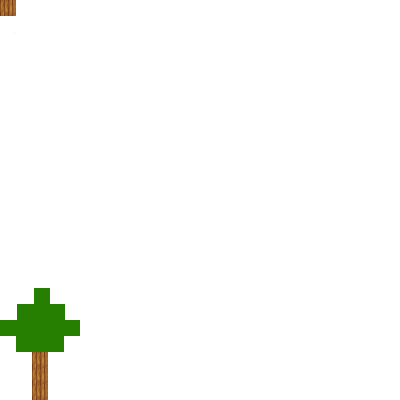
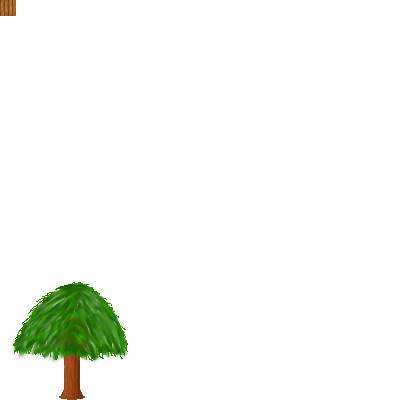
texture fix

Changed region(s): [[0.0, 0.69, 0.33, 1.0]]

diff --git a/Desolation/Desolation/Chunk/Room.cs b/Desolation/Desolation/Chunk/Room.cs
@@ -62,17 +62,17 @@ namespace Desolation
 
                                 if (j == 0)
                                 {
-                                    spriteBatch.Draw(TextureManager.roofsheet, new Vector2(area.X + j, area.Y + i - 16), new Rectangle(16, 16, Globals.blockSize * 3, Globals.blockSize), Color.White, 0f, Vector2.Zero, 1f, SpriteEffects.None, 1.0f);
+                                    spriteBatch.Draw(TextureManager.roofsheet, new Vector2(area.X + j, area.Y + i - 16), new Rectangle(16, 16, Globals.blockSize * 3, Globals.blockSize), Color.White, 0f, Vector2.Zero, 1f, SpriteEffects.None, 0.5f);
 
                                 }
                                 else if (j == area.Width - 16)
                                 {
-                                    spriteBatch.Draw(TextureManager.roofsheet, new Vector2(area.X + j - 16 * 2, area.Y + i - 16), new Rectangle(64, 16, Globals.blockSize * 3, Globals.blockSize), Color.White, 0f, Vector2.Zero, 1f, SpriteEffects.None, 1.0f);
+                                    spriteBatch.Draw(TextureManager.roofsheet, new Vector2(area.X + j - 16 * 2, area.Y + i - 16), new Rectangle(64, 16, Globals.blockSize * 3, Globals.blockSize), Color.White, 0f, Vector2.Zero, 1f, SpriteEffects.None, 0.5f);
 
                                 }
                                 else if (j > 16 * 2 && j < area.Width - 16 * 3)
                                 {
-                                    spriteBatch.Draw(TextureManager.roofsheet, new Vector2(area.X + j, area.Y + i - 16), new Rectangle(0, 16, Globals.blockSize, Globals.blockSize), Color.White, 0f, Vector2.Zero, 1f, SpriteEffects.None, 1.0f);
+                                    spriteBatch.Draw(TextureManager.roofsheet, new Vector2(area.X + j, area.Y + i - 16), new Rectangle(0, 16, Globals.blockSize, Globals.blockSize), Color.White, 0f, Vector2.Zero, 1f, SpriteEffects.None, 0.5f);
 
                                 }
                             }
@@ -80,17 +80,17 @@ namespace Desolation
                             {
                                 if (j == 0)
                                 {
-                                    spriteBatch.Draw(TextureManager.roofsheet, new Vector2(area.X + j, area.Y + i - 16), new Rectangle(16, 0, Globals.blockSize * 3, Globals.blockSize), Color.White, 0f, Vector2.Zero, 1f, SpriteEffects.None, 1.0f);
+                                    spriteBatch.Draw(TextureManager.roofsheet, new Vector2(area.X + j, area.Y + i - 16), new Rectangle(16, 0, Globals.blockSize * 3, Globals.blockSize), Color.White, 0f, Vector2.Zero, 1f, SpriteEffects.None, 0.5f);
 
                                 }
                                 else if (j == area.Width - 16)
                                 {
-                                    spriteBatch.Draw(TextureManager.roofsheet, new Vector2(area.X + j - 16 * 2, area.Y + i - 16), new Rectangle(64, 0, Globals.blockSize * 3, Globals.blockSize), Color.White, 0f, Vector2.Zero, 1f, SpriteEffects.None, 1.0f);
+                                    spriteBatch.Draw(TextureManager.roofsheet, new Vector2(area.X + j - 16 * 2, area.Y + i - 16), new Rectangle(64, 0, Globals.blockSize * 3, Globals.blockSize), Color.White, 0f, Vector2.Zero, 1f, SpriteEffects.None, 0.5f);
 
                                 }
                                 else if (j > 16 * 2 && j < area.Width - 16 * 3)
                                 {
-                                    spriteBatch.Draw(TextureManager.roofsheet, new Vector2(area.X + j, area.Y + i - 16), new Rectangle(0, 32, Globals.blockSize, Globals.blockSize), Color.White, 0f, Vector2.Zero, 1f, SpriteEffects.None, 1.0f);
+                                    spriteBatch.Draw(TextureManager.roofsheet, new Vector2(area.X + j, area.Y + i - 16), new Rectangle(0, 32, Globals.blockSize, Globals.blockSize), Color.White, 0f, Vector2.Zero, 1f, SpriteEffects.None, 0.5f);
 
                                 }
                             }
@@ -98,17 +98,17 @@ namespace Desolation
                             {
                                 if (j < 16 * 3)
                                 {
-                                    spriteBatch.Draw(TextureManager.roofsheet, new Vector2(area.X + j, area.Y + i - 16), new Rectangle(0, 48, Globals.blockSize, Globals.blockSize), Color.White, 0f, Vector2.Zero, 1f, SpriteEffects.None, 1.0f);
+                                    spriteBatch.Draw(TextureManager.roofsheet, new Vector2(area.X + j, area.Y + i - 16), new Rectangle(0, 48, Globals.blockSize, Globals.blockSize), Color.White, 0f, Vector2.Zero, 1f, SpriteEffects.None, 0.5f);
                             
                                 }
                                 else if (j > area.Width - 16 * 4)
                                 {
-                                    spriteBatch.Draw(TextureManager.roofsheet, new Vector2(area.X + j, area.Y + i - 16), new Rectangle(0, 64, Globals.blockSize, Globals.blockSize), Color.White, 0f, Vector2.Zero, 1f, SpriteEffects.None, 1.0f);
+                                    spriteBatch.Draw(TextureManager.roofsheet, new Vector2(area.X + j, area.Y + i - 16), new Rectangle(0, 64, Globals.blockSize, Globals.blockSize), Color.White, 0f, Vector2.Zero, 1f, SpriteEffects.None, 0.5f);
                             
                                 }
                                 else
                                 {
-                                    spriteBatch.Draw(TextureManager.roofsheet, new Vector2(area.X + j, area.Y + i - 16), new Rectangle(0, 0, Globals.blockSize, Globals.blockSize), Color.White, 0f, Vector2.Zero, 1f, SpriteEffects.None, 1.0f);
+                                    spriteBatch.Draw(TextureManager.roofsheet, new Vector2(area.X + j, area.Y + i - 16), new Rectangle(0, 0, Globals.blockSize, Globals.blockSize), Color.White, 0f, Vector2.Zero, 1f, SpriteEffects.None, 0.5f);
                             
                                 }
                             }

diff --git a/Desolation/Desolation/Chunk/Generator.cs b/Desolation/Desolation/Chunk/Generator.cs
@@ -44,6 +44,9 @@ namespace Desolation
 
             int YPos = region.yPosRegion * 4 + valueIndex / 4;
 
+            uint uniquePos = Globals.getUniqueNumber(Globals.getUniquePositiveFromAny(XPos), Globals.getUniquePositiveFromAny(YPos));
+            uint uniqueseed = Globals.getUniqueNumber(uniquePos, (uint)Globals.seed);
+            Random generator = new Random((int)uniqueseed);
 
             int localxPos;
             int localyPos;
@@ -99,7 +102,7 @@ namespace Desolation
             byte[] blocks = new byte[256];
             for (int j = 0; j < blocks.Length; j++)
             {
-                int chance = Globals.rand.Next(0, 2);
+                int chance = generator.Next(0, 2);
                 if (chance <= 0)
                 {
                     blocks[j] = (byte)0;
@@ -117,10 +120,11 @@ namespace Desolation
 
             chunk.blocks = blocks;
 
+            
             byte[] objects = new byte[256];
             for (int j = 0; j < objects.Length; j++)
             {
-                int chance = Globals.rand.Next(0, 200);
+                int chance = generator.Next(0, 200);
                 if (chance <= 0)
                 {
                     objects[j] = (byte)3;

diff --git a/Desolation/Desolation/Chunk/RenderObject.cs b/Desolation/Desolation/Chunk/RenderObject.cs
@@ -63,7 +63,7 @@ namespace Desolation
                     spriteBatch.Draw(TextureManager.objectsheet, position, new Rectangle(0, 0, Globals.blockSize, Globals.blockSize), Color.White, 0f, Vector2.Zero, 1f, SpriteEffects.None, (float)(0.3 + 0.0001f * (position.Y - Globals.cameraPos.Y)));
                     break;
                 case 3:
-                    spriteBatch.Draw(TextureManager.objectsheet, new Vector2(position.X - 32, position.Y - 96), new Rectangle(0, 288, 80, 112), Color.White, 0f, Vector2.Zero, 1f, SpriteEffects.None, (float)(0.3 + 0.0001f * (position.Y - Globals.cameraPos.Y)));
+                    spriteBatch.Draw(TextureManager.objectsheet, new Vector2(position.X - 64, position.Y - 96), new Rectangle(0, 272, 128, 128), Color.White, 0f, Vector2.Zero, 1f, SpriteEffects.None, (float)(0.3 + 0.0001f * (position.Y - Globals.cameraPos.Y)));
                     break;
                 default:
                     break;

diff --git a/Desolation/Desolation/Animations/Animation.cs b/Desolation/Desolation/Animations/Animation.cs
@@ -30,7 +30,7 @@ namespace Desolation
             switch (animationType)
             {
                 case AnimationType.FadeOutAndIn:
-                    spriteBatch.Draw(TextureManager.fillingTexture, new Vector2(position.X - 10, position.Y - 10), new Rectangle(-10, -10, Globals.screenX + 20, Globals.screenY + 20), new Color((float)alpha, (float)alpha, (float)alpha, (float)alpha), 0f, Vector2.Zero, 1f, SpriteEffects.None, 1.0f);
+                    spriteBatch.Draw(TextureManager.fillingTexture, new Vector2(position.X - 10, position.Y - 10), new Rectangle(-10, -10, Globals.screenX + 20, Globals.screenY + 20), new Color((float)alpha, (float)alpha, (float)alpha, (float)alpha), 0f, Vector2.Zero, 1f, SpriteEffects.None, 0.9f);
                     break; //(float)((double)TTL / (double)startTTL)
                 case AnimationType.Smoke:
                     //uses particleEngine

diff --git a/Desolation/Desolation/Globals.cs b/Desolation/Desolation/Globals.cs
@@ -12,6 +12,7 @@ namespace Desolation
     // 0.2-0.2*y Blocks
     // 0.3-0.3*y Objects
     // 0.3-0.3*y Entities
+    // 0.4 particles
     // 0.5 roof
     //
     // 0.9 animations
@@ -45,6 +46,7 @@ namespace Desolation
         public static long ticksLastChunkLoad = 0;
         public static uint currentStructureID; //structure player is inside
         public static SpriteFont font;
+        public static readonly int seed = 123;
 
 
         public static void shiftChunksRight(ref Chunk[] chunkArray) //chunks moving right and left side getting null
